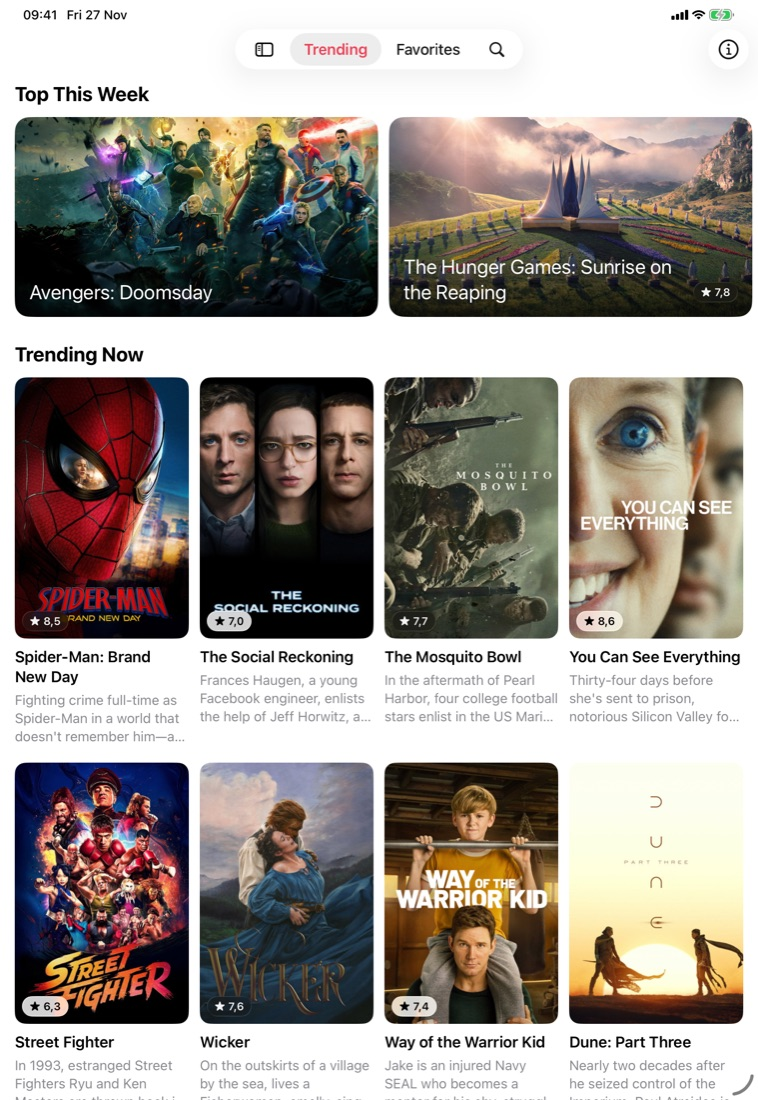
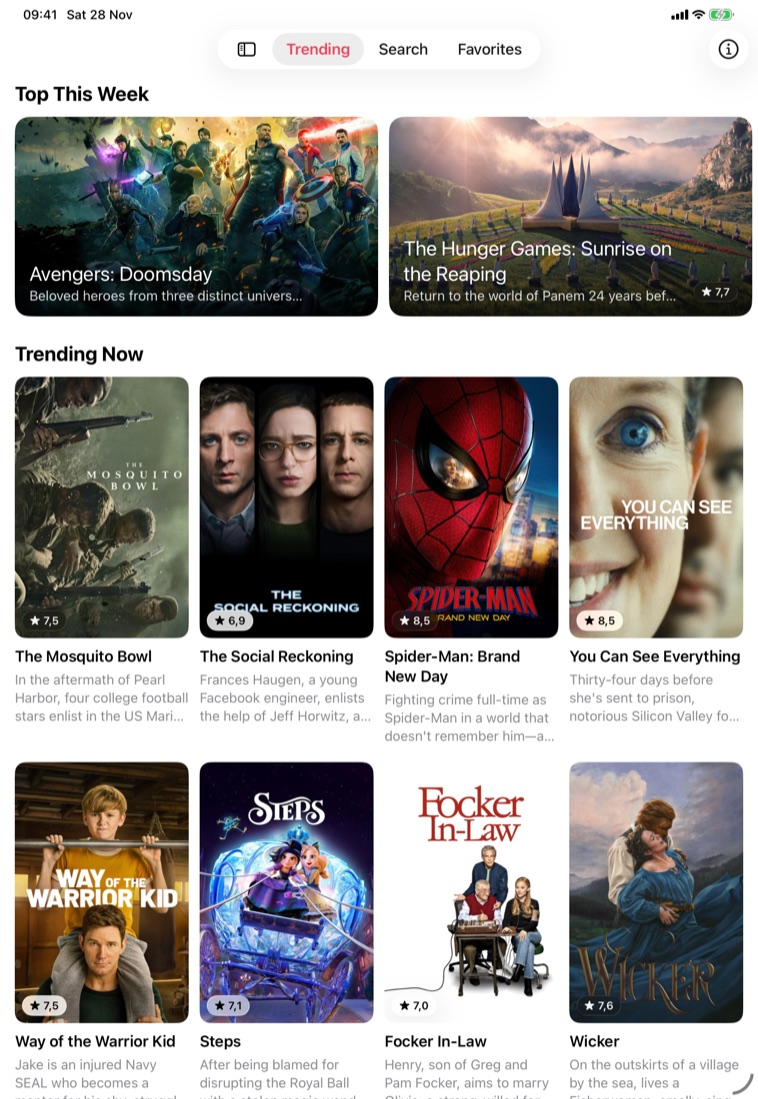
docs: refresh screenshots and correct two README details
The screenshots now show the three-tab bar, search with the Movies/TV scopes at the top, and descriptions on the featured cards; unused screenshots are removed. The README no longer lists HTTPTransport as a view-model dependency, says where Mutex is used, and lists RequestQueue among the generics.

diff --git a/README.md b/README.md
@@ -90,7 +90,7 @@ flowchart TB
 ```
 
 **Pattern: MVVM with constructor injection.**
-- View models depend on protocols (`TMDBService`, `HTTPTransport`, `FavoritesStoring`, `Sleeper`), never on concrete types.
+- View models depend on protocols (`TMDBService`, `FavoritesStoring`, `Sleeper`), never on concrete types. Core does the same inside: the client and image pipeline depend on `HTTPTransport` and `CredentialProvider`.
 - One composition root wires everything; tests pass in fakes. No DI library.
 - View models are created on events, never in a view's initializer (which SwiftUI re-runs on every redraw): the tab screens' view models at launch, a details view model when a title is tapped.
 
@@ -101,7 +101,7 @@ flowchart TB
 **Generics.**
 - `Endpoint<Response>` ties a request to its decoded type.
 - `Page<Item>`, `PaginatedCollection<Item>` and `PaginationController<Item>` are shared by Trending and Search.
-- `Throttler<Value>`.
+- `Throttler<Value>` and `RequestQueue<ID>`.
 
 **Protocol-oriented seams.**
 - Transport: live, fixture and fake implementations.
@@ -128,7 +128,7 @@ Every target uses Swift 6 language mode, so data-race safety is checked at compi
 
 **Heavy work runs off the actors.** JSON decoding and ImageIO downsampling run in `nonisolated` code, and downloads start in `Task { @concurrent … }`.
 
-**No escape hatches.** There is no `@unchecked Sendable`, no `nonisolated(unsafe)` and no lock-wrapped boxes. `NSCache` isn't `Sendable`, so it never leaves its actor. Test-only shared state uses `Synchronization.Mutex`.
+**No escape hatches.** There is no `@unchecked Sendable`, no `nonisolated(unsafe)` and no hand-rolled lock wrappers. `NSCache` isn't `Sendable`, so it never leaves its actor. The little shared state outside actors (test helpers, and `FixtureTransport` behind test-data mode) uses the standard library's `Synchronization.Mutex`.
 
 **Cancellation is end to end:**
 - Leaving a details screen cancels its request (`.task`).
